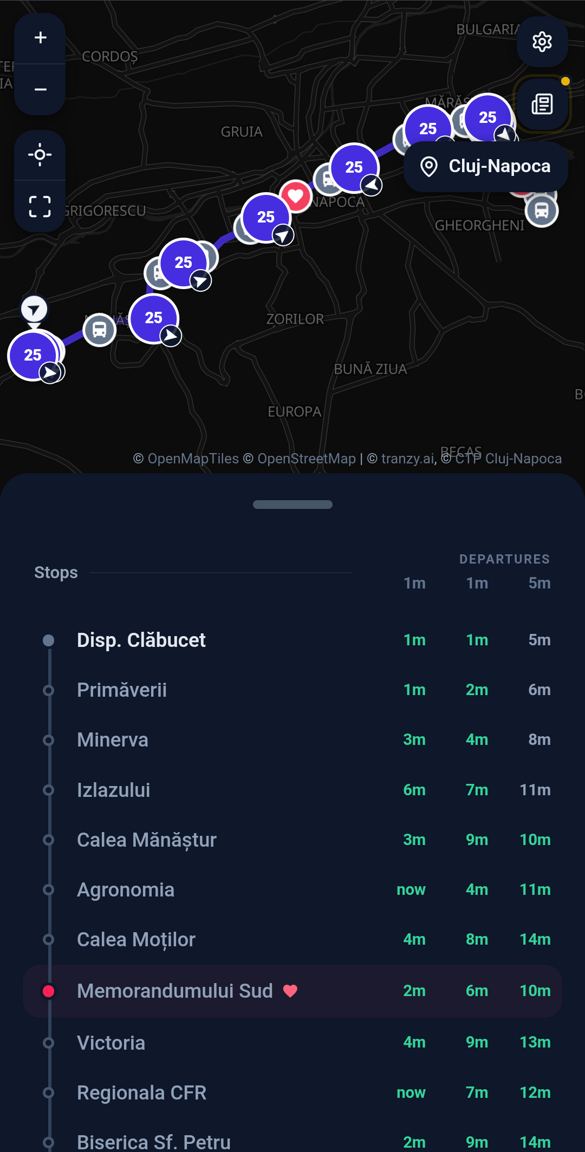
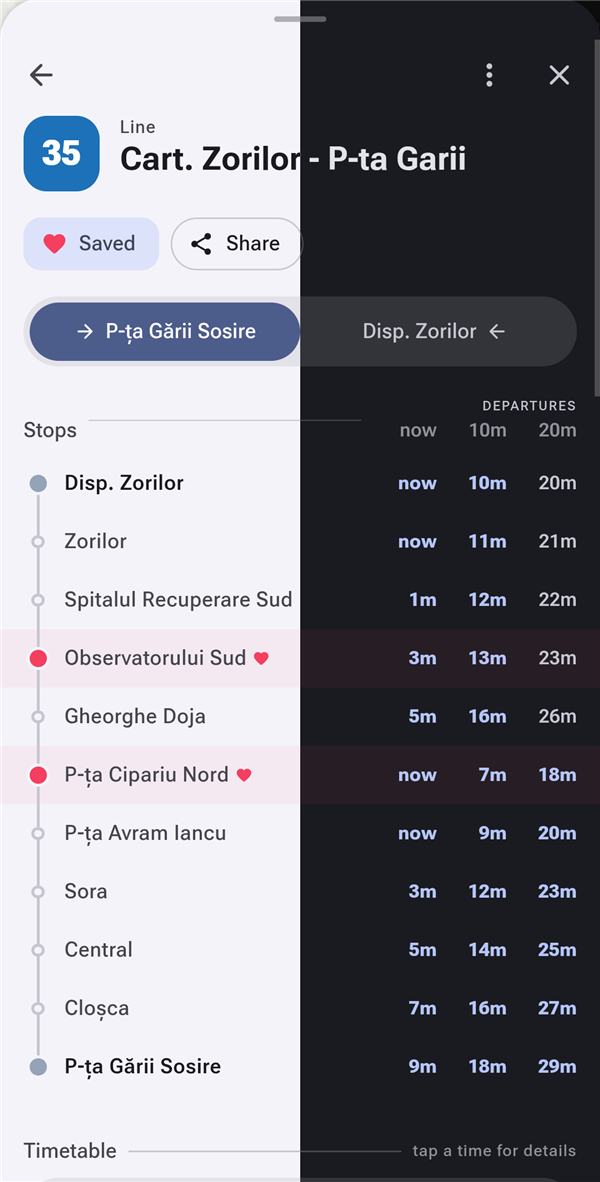
README update

diff --git a/README.md b/README.md
@@ -1,67 +1,74 @@
 # Ce autobuz iau?
 
-A live bus and tram tracker for Cluj-Napoca, București, Iași, Oradea and Constanța. I ride CTP every day and got tired of the official site, so I built the one I actually wanted to use.
+A live bus, tram and trolleybus tracker for Romanian cities. I ride CTP every day and got tired of the official site, so I built the one I actually wanted to use.
 
 **[ceautobuziau.ro](https://ceautobuziau.ro)** (formerly Conexiuni Cluj)
 
-![Universitate in București: metro and bus departures from every platform together, and the stations around it on the map](readme/desktop-stop.png)
+![Memorandumului Sud in Cluj-Napoca: live departures next to the map, with the 25 and 24B on their way](readme/desktop-stop.png)
 
 ## What it does
 
 - Live buses, trams and trolleybuses on the map
 - Departures for any stop. Tracked buses get a live countdown, the rest show approximate times
-- Stations with every platform's departures in one list, and a metro, tram, trolleybus or bus icon
-- The times get better on their own: the server watches the buses and learns how long each stretch really takes, hour by hour
-- Full timetables for every line, from the operator
+- Timetables get better on their own, the server watches buses and learns how long each stretch really takes
+- Full timetables for every line, from the operator or calculated from live feeds
 - A route planner: leave now, leave at, arrive by, or the last one today
-- Step-by-step guidance for a planned trip
-- Follow a bus and get told when it comes, and reminders for the buses you take often (experimental)
 - Favorite stops, places and lines
-- Operator news, and a notification when a line you follow changes
-- Installable as an app. After the first visit every stop, line and timetable opens without the server: the whole network comes down once (about 180 KB for Cluj) and only the buses stay live
-- Move your favorites and settings to another phone, the Android app or your watch by scanning a code
-- Works from a hardware keyboard too, no arrow keys needed (hjkl and letter shortcuts)
+- Operator news, and the changes to the lines you follow
+- Installable as an app with offline support after the first visit, the whole network is downloaded once (about 180 KB for Cluj)
+- Move your favorites and settings to another phone, by scanning a QR
+- Support from hardware keyboards too
 
 <p align="center">
-  <img src="readme/phone-home.png" width="200" alt="Favorite lines and stations in București, the metro stations marked with an M">
-  <img src="readme/phone-route.png" width="200" alt="Line 25's stops with live arrival times, a favorite stop marked with a heart">
-  <img src="readme/phone-planner.png" width="200" alt="A planned trip from the dorm to the university, ready to start">
-  <img src="readme/phone-timetable.png" width="200" alt="A line's timetable, with the times already gone faded out">
+  <img src="readme/phone-home.png" width="200" alt="Home in light and dark: the dorm, UTCN and the library saved as places, favorite lines and stops">
+  <img src="readme/phone-route.png" width="200" alt="Line 35 in light and dark, with the next arrivals at every stop and the favorite stops marked with a heart">
+  <img src="readme/phone-planner.png" width="200" alt="A trip from the dorm to UTCN in light and dark, with a change from the 40 to the 25">
+  <img src="readme/phone-timetable.png" width="200" alt="Line 35's weekday timetable in light and dark, the times already gone faded out">
 </p>
-
-### Light and dark
-
-<p align="center">
-  <img src="readme/theme-default.png" width="380" alt="The app in light mode on the left and dark mode on the right">
-</p>
-
-### Apps
 
 There's an [Android app](https://github.com/bmarian/conexiuni-cluj-mobile) and a [Wear OS app](https://github.com/bmarian/conexiuni-cluj-wearos) too.
 
-### On a Playdate
+## Cities
 
-There's a [Playdate companion](https://github.com/bmarian/conexiuni-cluj-playdate) for Cluj too. It syncs once over Wi-Fi, then stops, lines and timetables work offline.
+| City        | Transit company                                                                               | Buses      | Data from                                                                                                                                                         |
+| ----------- | --------------------------------------------------------------------------------------------- | ---------- | ----------------------------------------------------------------------------------------------------------------------------------------------------------------- |
+| București   | [STB](https://www.stbsa.ro/), [Metrorex](https://www.metrorex.ro/)                            | Live       | [TPBI](https://tpbi.ro/): lines, timetables, live positions and news                                                                                              |
+| Cluj-Napoca | [CTP Cluj-Napoca](https://ctpcj.ro/)                                                          | Live       | [Tranzy.ai](https://tranzy.ai/) for lines, stops and live positions, CTP for timetables and news                                                                  |
+| Constanța   | [CT BUS](https://www.ctbus.ro/)                                                               | Live       | [Tranzy.ai](https://tranzy.ai/), timetables from [gtfs.ro](https://gtfs.ro/), news from CT BUS                                                                    |
+| Iași        | [CTP Iași](https://www.sctpiasi.ro/)                                                          | Live       | [Tranzy.ai](https://tranzy.ai/), timetables from [gtfs.ro](https://gtfs.ro/), news from CTP Iași                                                                  |
+| Oradea      | [OTL](https://www.otl.ro/)                                                                    | Live       | [Tranzy.ai](https://tranzy.ai/), timetables from [gtfs.ro](https://gtfs.ro/), news from OTL                                                                       |
+| Suceava     | [TPL Suceava](https://tpl-sv.ro/)                                                             | Live       | A [volunteer-made GTFS](https://gtfs.opendev.ro/GTFS-328.zip), TPL's line pages for the lines it lacks, and the buses on TPL's own live map                       |
+| Botoșani    | [Eltrans](https://eltransbt.ro/)                                                              | Timetables | [Tranzy.ai](https://tranzy.ai/) for lines and stops, the timetable from the [City Hall's PDF](https://primariabt.ro/storage/2020/07/microbusautobus.pdf)          |
+| Sibiu       | [Tursib](https://tursib.ro/)                                                                  | Timetables | Tursib: lines, timetables and news                                                                                                                                |
 
-<p align="center">
-  <img src="readme/playdate-station.png" width="260" alt="A stop on the Playdate with the next arrivals">
-  <img src="readme/playdate-route.png" width="260" alt="Line 25 on the Playdate, with the bus moving between stops">
-  <img src="readme/playdate-timetable.png" width="260" alt="Line 25's weekday timetable on the Playdate">
-</p>
+This is an unofficial app, not affiliated with any of these companies or city halls.
+
+## Credits
+
+| Source                                                                             | Used for                                                                                                                                                         |
+| ---------------------------------------------------------------------------------- | ---------------------------------------------------------------------------------------------------------------------------------------------------------------- |
+| [OpenStreetMap](https://www.openstreetmap.org/copyright) contributors              | Map data, walking routes and place search, © OpenStreetMap contributors, [ODbL](https://opendatacommons.org/licenses/odbl/). The extract comes from [Geofabrik](https://www.geofabrik.de/) |
+| [OpenFreeMap](https://openfreemap.org/), [OpenMapTiles](https://openmaptiles.org/) | Map tiles                                                                                                                                                        |
+| [MapLibre](https://maplibre.org/)                                                  | The map                                                                                                                                                          |
 
 ---
 
 ## Running it yourself
 
-You'll need Node 22.12+, Go 1.26+, and a [Tranzy](https://tranzy.ai/) API key for each city except București.
-
-Put your keys in a `keys.env` next to this README.
+You'll need Node 20.19+ or 22.12+, Go 1.26+, and a [Tranzy](https://tranzy.ai/) API key for each city that uses it. Put the keys in a `keys.env` next to this README; a city without its key is left out.
 
 ```bash
 TRANZY_API_KEY_CLUJ=your_tranzy_key
 TRANZY_API_KEY_IASI=your_tranzy_key
 TRANZY_API_KEY_ORADEA=your_tranzy_key
 TRANZY_API_KEY_CONSTANTA=your_tranzy_key
+TRANZY_API_KEY_BOTOSANI=your_tranzy_key
+```
+
+The route planner, place search and station names read the OpenStreetMap extract for Romania (about 330 MB):
+
+```bash
+curl -o backend/services/osm/romania-latest.osm.pbf https://download.geofabrik.de/europe/romania-latest.osm.pbf
 ```
 
 Then the backend and the frontend, each in its own terminal:
@@ -77,26 +84,48 @@ npm install
 npm run dev
 ```
 
-The backend listens on `:6698` and the dev server proxies `/api` to it. Everything else has a default in [`.env`](.env). Cities listed in `db/disabled-cities.json` are switched off.
+The backend listens on `:6698` and the dev server proxies `/api` to it. Everything else has a default in [`.env`](.env).
 
-**The network bundle** (`/api/{city}/network`) is every line with its timetable, stop sequence and learned travel times for each hour of each kind of day, plus every stop and the station it belongs to. Every client builds stop pages, line pages and timetables from it; there are no per-stop or per-line endpoints. `/api/{city}/network/version` tells it when the lines changed. The learned travel times are read once per quarter hour, so those answers hold still between refreshes. **Arrivals** come from `/api/{city}/live`: the server snaps every bus once per poll, predicts its arrival at each downstream stop, follows it onto its next trip at a through-running terminus and merges the result with the timetable into final rows per trip and stop. Subscribe by `stop_ids` and `trip_ids` for an SSE stream (a snapshot, then only the rows and buses that changed, gzipped), or add `once=1` for a single JSON answer. Shapes come as encoded polylines with `/api/{city}/shapes?format=polyline`.
+<details>
+<summary><b>Keys and cities</b></summary>
 
-**Push notifications** need a VAPID key pair in `keys.env` (`VAPID_PUBLIC_KEY`, `VAPID_PRIVATE_KEY`, and `VAPID_SUBJECT` as a contact email or URL). Without it the server runs with push turned off.
+<br>
 
-**The route planner**, place search and station names read `backend/services/osm/romania-latest.osm.pbf`, which [`update.sh`](update.sh) downloads from Geofabrik (`--update-pbf` refreshes it).
+București, Suceava and Sibiu need no key. Every Tranzy city takes an optional second key, `TRANZY_API_KEY_{CITY}_LEARNING`, which the server uses to keep learning travel times while nobody is watching, without eating into the live quota. `VEHICLE_LEARNING_ENABLED_{CITY}` in `.env` turns that learning off for one city.
 
-**Production** is `npm run build` in `frontend/`, which writes to `backend/dist/`, and the Go server serves it directly. `update.sh` is what I deploy with.
+Each city keeps its own SQLite database in `db/{city}.db` and its history in `archive/{city}.db`. Cities listed in `db/disabled-cities.json` are switched off; the admin page switches them on and off while the server runs.
 
-## Credits
+</details>
 
-| Source                                                                             | Used for                                                                                     |
-| ---------------------------------------------------------------------------------- | -------------------------------------------------------------------------------------------- |
-| [Tranzy.ai](https://tranzy.ai/)                                                    | Live positions, lines and stops for Cluj-Napoca, Iași, Oradea and Constanța                 |
-| [CTP Cluj-Napoca](https://ctpcj.ro/)                                               | Cluj-Napoca's timetables and news                                                            |
-| [gtfs.ro](https://gtfs.ro/)                                                        | Timetables for Iași, Oradea and Constanța                                                    |
-| [TPBI](https://tpbi.ro/)                                                           | Lines, timetables, live positions and news for București                                     |
-| [CTP Iași](https://www.sctpiasi.ro/), [OTL](https://www.otl.ro/), [CT BUS](https://www.ctbus.ro/) | News for Iași, Oradea and Constanța                                           |
-| [OpenStreetMap](https://www.openstreetmap.org/) contributors                       | Map data, walking routes, place search, © OpenStreetMap contributors, [ODbL](https://opendatacommons.org/licenses/odbl/) |
-| [Geofabrik](https://www.geofabrik.de/)                                             | OpenStreetMap extract                                                                        |
-| [OpenFreeMap](https://openfreemap.org/), [OpenMapTiles](https://openmaptiles.org/) | Map tiles                                                                                    |
-| [MapLibre](https://maplibre.org/)                                                  | The map                                                                                      |
+<details>
+<summary><b>How the data reaches the website and the apps</b></summary>
+
+<br>
+
+**The network bundle** (`/api/{city}/network`) is every line with its timetable, stop sequence and learned travel times for each hour of each kind of day, plus every stop and the station it belongs to. Every client builds stop pages, line pages and timetables from it; there are no per-stop or per-line endpoints. `/api/{city}/network/version` tells it when the lines changed. The learned travel times are read once per quarter hour, so those answers hold still between refreshes.
+
+**Arrivals** come from `/api/{city}/live`: the server snaps every bus once per poll, predicts its arrival at each downstream stop, follows it onto its next trip at a through-running terminus and merges the result with the timetable into final rows per trip and stop. Subscribe by `stop_ids` and `trip_ids` for an SSE stream (a snapshot, then only the rows and buses that changed, gzipped), or add `once=1` for a single JSON answer.
+
+**Everything else:** `/api/cities` lists the cities that are on, `/api/{city}/plan` plans a trip, `/api/{city}/places` searches addresses and places, `/api/{city}/areas` names the towns and districts the zoomed-out map shows, `/api/{city}/updates` merges operator news with line changes, `/api/{city}/shapes?format=polyline` gives the line shapes, and `/api/transfer` carries favorites between devices.
+
+</details>
+
+<details>
+<summary><b>Adding a city</b></summary>
+
+<br>
+
+A city is a folder under [`backend/cities/`](backend/cities) with a `city.go` that names it, its operator and its feeds, plus one line in `allCities` in [`backend/cities.go`](backend/cities.go). The shared readers cover Tranzy, GTFS zips, GTFS-realtime and RSS news; anything a city publishes in its own format gets a reader in its folder, like Cluj's CSV timetables or Botoșani's PDF.
+
+</details>
+
+<details>
+<summary><b>Production</b></summary>
+
+<br>
+
+`npm run build` in `frontend/` writes to `backend/dist/`, and the Go server serves it directly. With `ENV=production` the server also needs `ADMIN_TOKEN` and `LOG_IP_HASH_SALT` in `keys.env`.
+
+[`update.sh`](update.sh) is what I deploy with: it pulls, builds both halves, downloads the OpenStreetMap extract if it's missing and restarts the service. `--update-pbf` refreshes the extract, `--bust-cache` makes every source download again, and `--delete-db` / `--delete-logs` start from scratch.
+
+</details>
